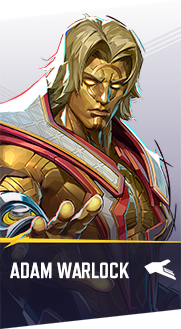
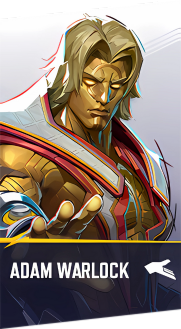
started upscaling character portraits

diff --git a/src/components/CharacterGrid/CharacterGrid.css b/src/components/CharacterGrid/CharacterGrid.css
@@ -1,6 +1,6 @@
 .character-grid {
   display: grid;
-  grid-template-columns: repeat(auto-fill, minmax(181px, 1fr)); /* Default grid setup */
+  grid-template-columns: repeat(auto-fill, minmax(181px, 1fr)); /* Flexible grid setup */
   gap: 16px; /* Space between items */
   padding: 16px;
 }
@@ -9,20 +9,21 @@
   display: flex;
   flex-direction: column;
   align-items: center;
-  justify-content: flex-start; /* Ensures the content is aligned properly */
+  justify-content: flex-start; /* Align content to the top */
   border: 1px solid #f3d02a; /* Optional border */
   position: relative;
-  width: 181px; /* Fixed width for each card */
-  height: 329px; /* Fixed height for each card */
+  width: 100%; /* Card width should adapt to grid */
+  min-height: 329px; /* Ensure consistent height */
   background-color: #0A0A0A; /* Background color */
-  overflow: hidden; /* Hide anything overflowing the card */
+  overflow: hidden; /* Hide anything overflowing */
   transition: transform 0.3s ease, box-shadow 0.3s ease; /* Smooth transition for scaling and shadow */
+  flex-grow: 1; /* Allow card to grow and fill space */
 }
 
 .character-card img {
   width: 100%; /* Image fills the width of the card */
-  height: 100%; /* Image takes up 90% of the card height */
-  object-fit: cover; /* Crop the image to fit the square without stretching */
+  height: auto; /* Auto height for the image to maintain aspect ratio */
+  object-fit: cover; /* Ensures the image covers the space without stretching */
 }
 
 .character-card:hover {
@@ -30,27 +31,29 @@
   box-shadow: 0 4px 8px rgba(0, 0, 0, 0.3); /* Add a shadow for depth */
 }
 
-
-/* Responsive Styles for smaller screen sizes */
+/* Mobile Styles: 2 items per row */
 @media (max-width: 600px) {
   .character-grid {
     grid-template-columns: repeat(2, 1fr); /* 2 items per row for mobile */
-    gap: 16px; /* Reduce gap between items on mobile */
+    gap: 16px; /* Maintain gap between items */
     padding: 16px; /* Adjust padding to avoid overflow */
   }
 
   .character-card {
-    width: 100%; /* Reduce card width to fit better */
+    width: 100%; /* Cards should take full width */
   }
 }
 
-@media (min-width: 601px) {
+/* Desktop Styles: 7 items per row */
+@media (min-width: 1025px) {
   .character-grid {
-    grid-template-columns: repeat(7, 181px); /* Keep 181px wide for larger screens */
-    width: 100%;
-    padding: 16px;
-    justify-content: center;
-    margin-top: 16px;
-    align-items: center;
+    grid-template-columns: repeat(7, 1fr); /* 7 items per row on desktop */
+    gap: 16px; /* Space between items */
+    padding: 16px; /* Padding adjustment */
+  }
+
+  .character-card {
+    width: 100%; /* Ensure full width within the grid */
+    min-height: 329px; /* Ensure consistent height */
   }
 }

diff --git a/src/components/Navbar/Navbar.css b/src/components/Navbar/Navbar.css
@@ -12,10 +12,10 @@
   background-position: 0 0, 4px 4px, 0 0;
   color: black;
   position: relative;
-  height: 60px; /* Fixed height for navbar */
+  height: 100px; /* Fixed height for navbar */
   transition: all 0.3s ease-in-out;
   font-family: 'Comic Neue', sans-serif;
-  border-radius: 5px;
+ /* border-radius: 5px;*/
 }
 
 
@@ -38,6 +38,10 @@
   margin: 0;
   transition: transform 0.3s ease-in-out;
   text-shadow: 1px 1px 2px rgba(0, 0, 0, 0.5); /* Subtle shadow for text clarity */
+  font-weight: bold;
+  text-transform: uppercase;
+  font-size: 1.8rem;
+  padding: 1 rem 0;
 }
 
 .nav-links li a {
